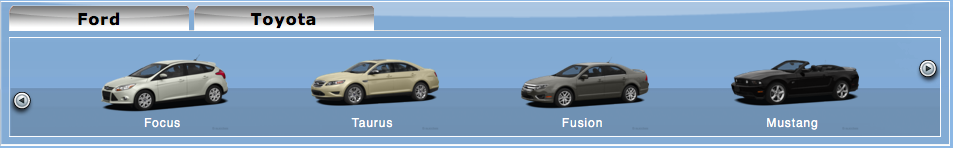
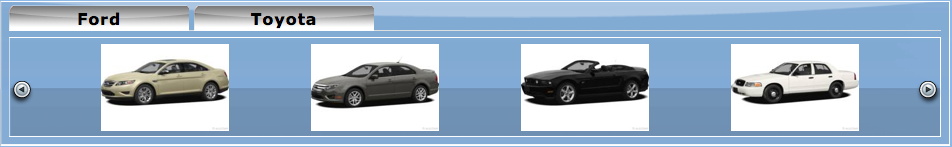
Fixing prev/next buttons.

diff --git a/widgets/vrs-large-inventory-slider/style.css b/widgets/vrs-large-inventory-slider/style.css
@@ -81,6 +81,7 @@
   border:none;
   text-indent:-9999px;
   background-repeat:no-repeat;
+  margin-top:50px;
 }
 .vrs-widget.large .carousel-control.previous.carousel-previous {
   background-image: url('/wp-content/uploads/2011/08/button-left-arrow-25x25.png.png');
@@ -92,12 +93,10 @@
 }
 .vrs-widget.large .carousel-control.previous {
   float:left;
-  margin:3% 0;
   width:25px;
   height:28px;
 }
 .vrs-widget.large .carousel-control.next {
-  margin:3% 0;
   width:27px;
   height:28px;
   padding:0;
